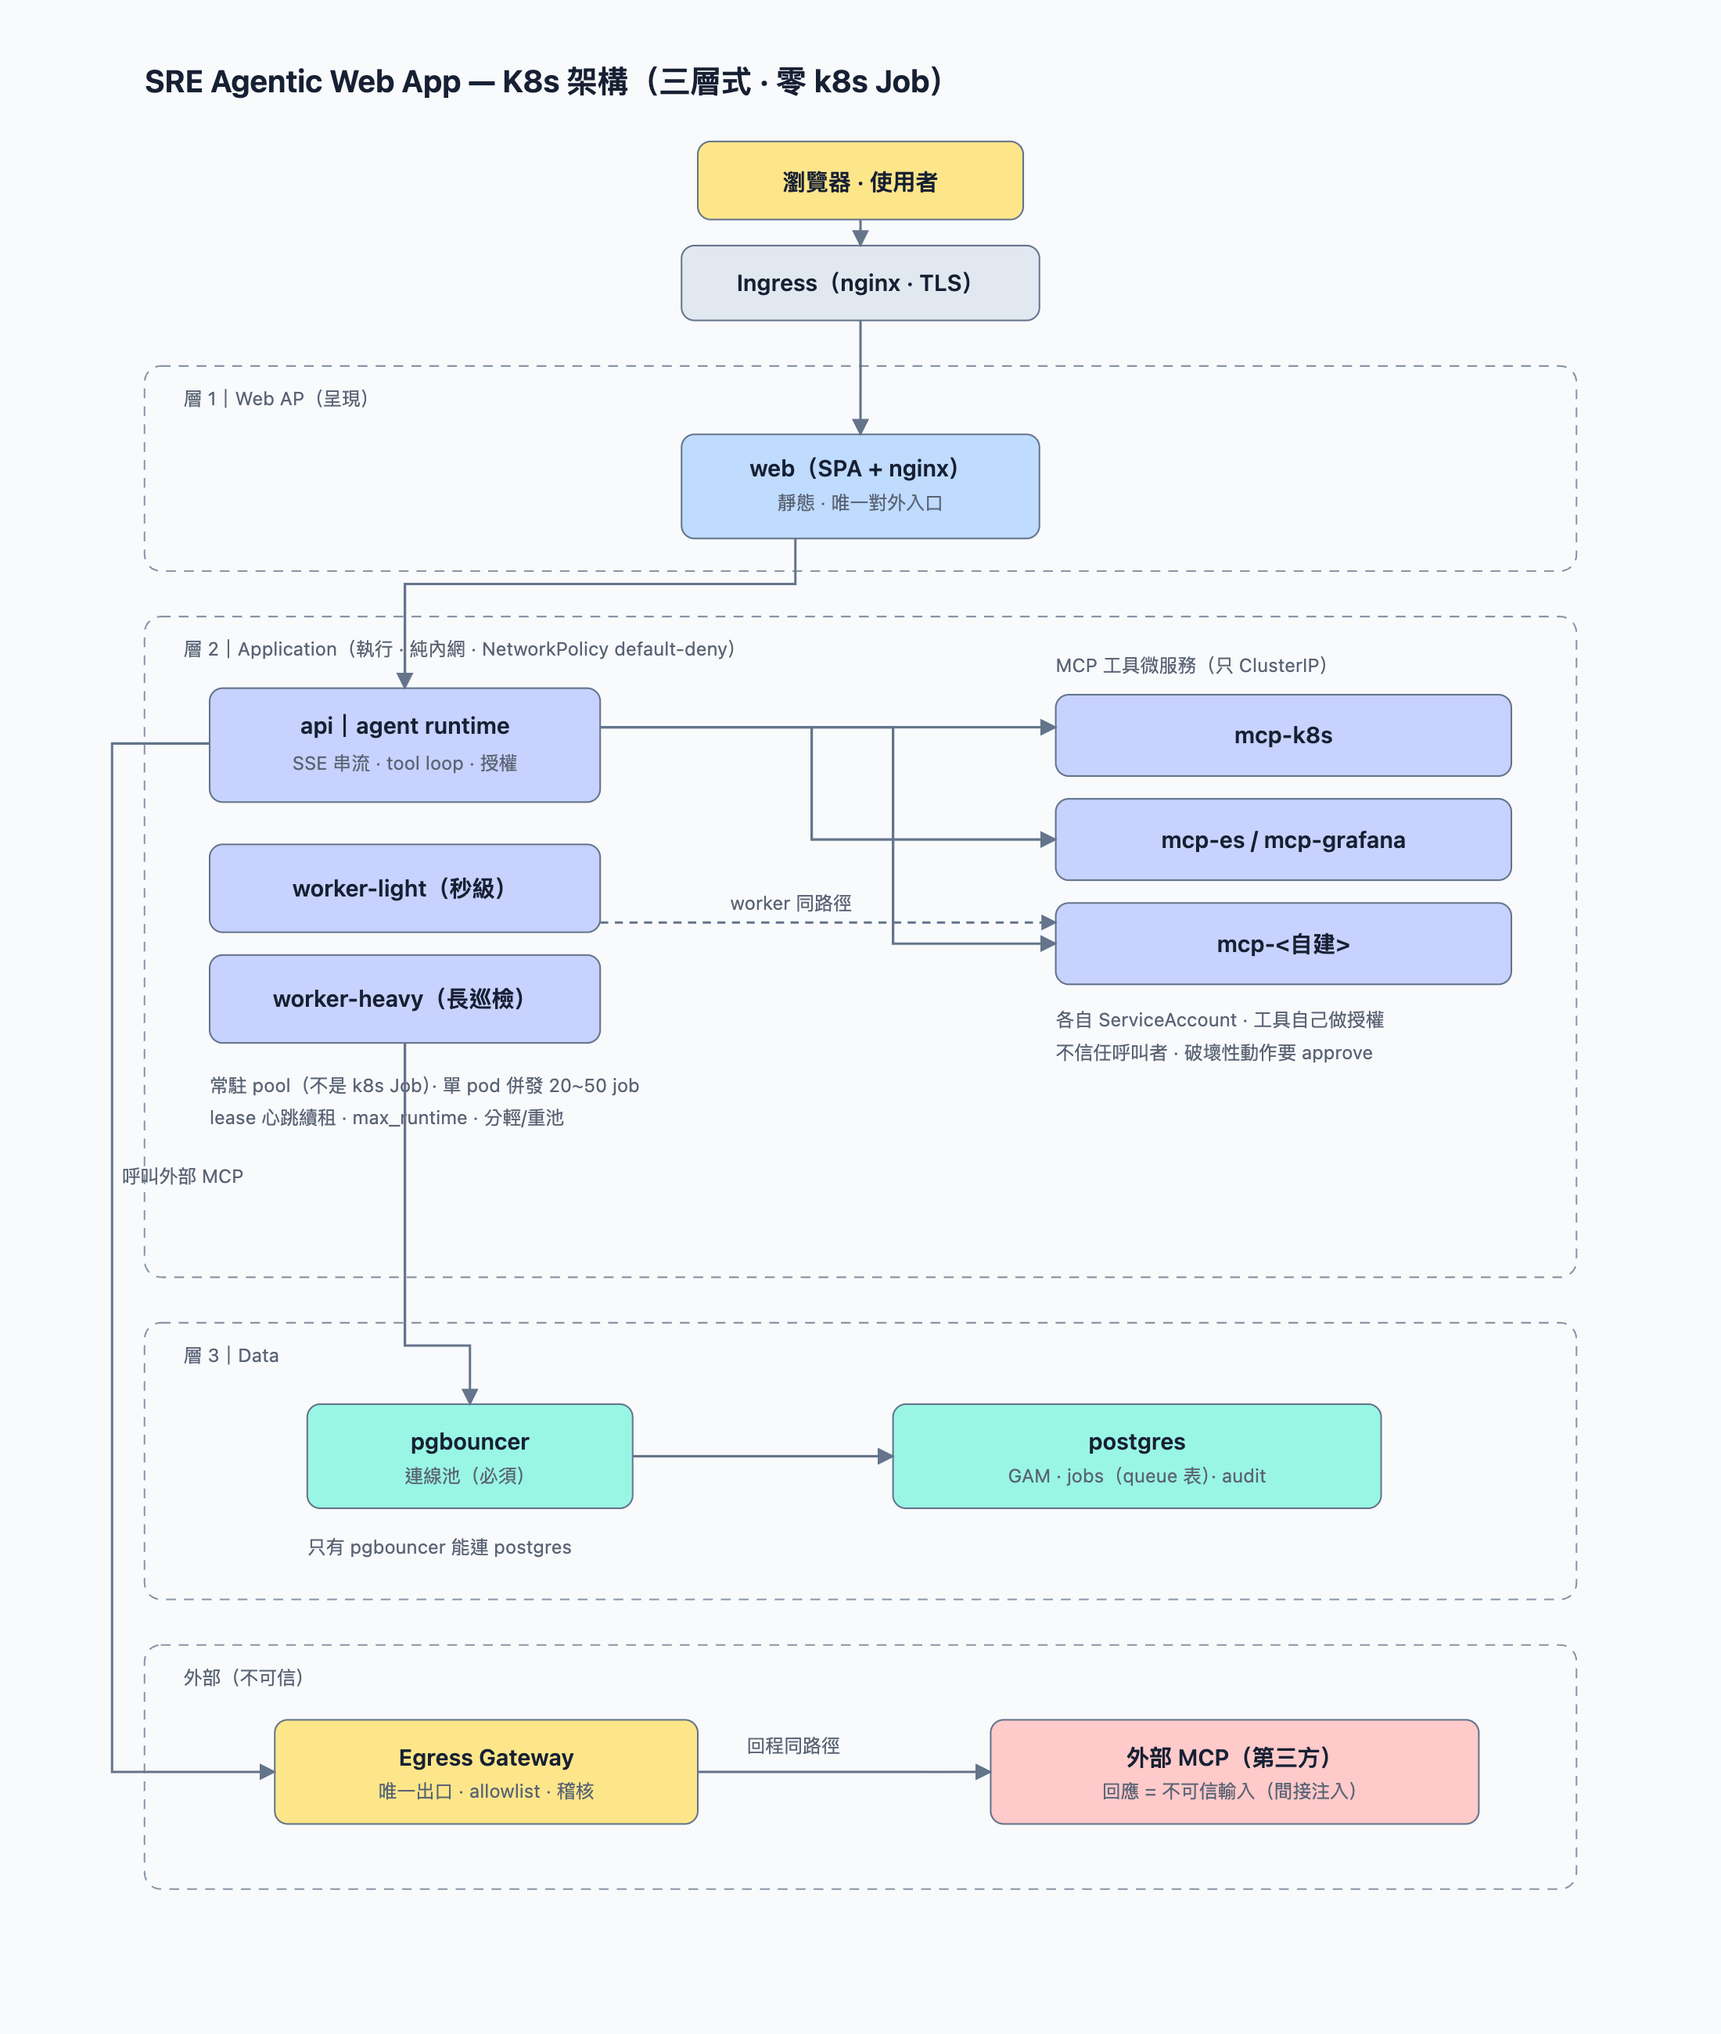
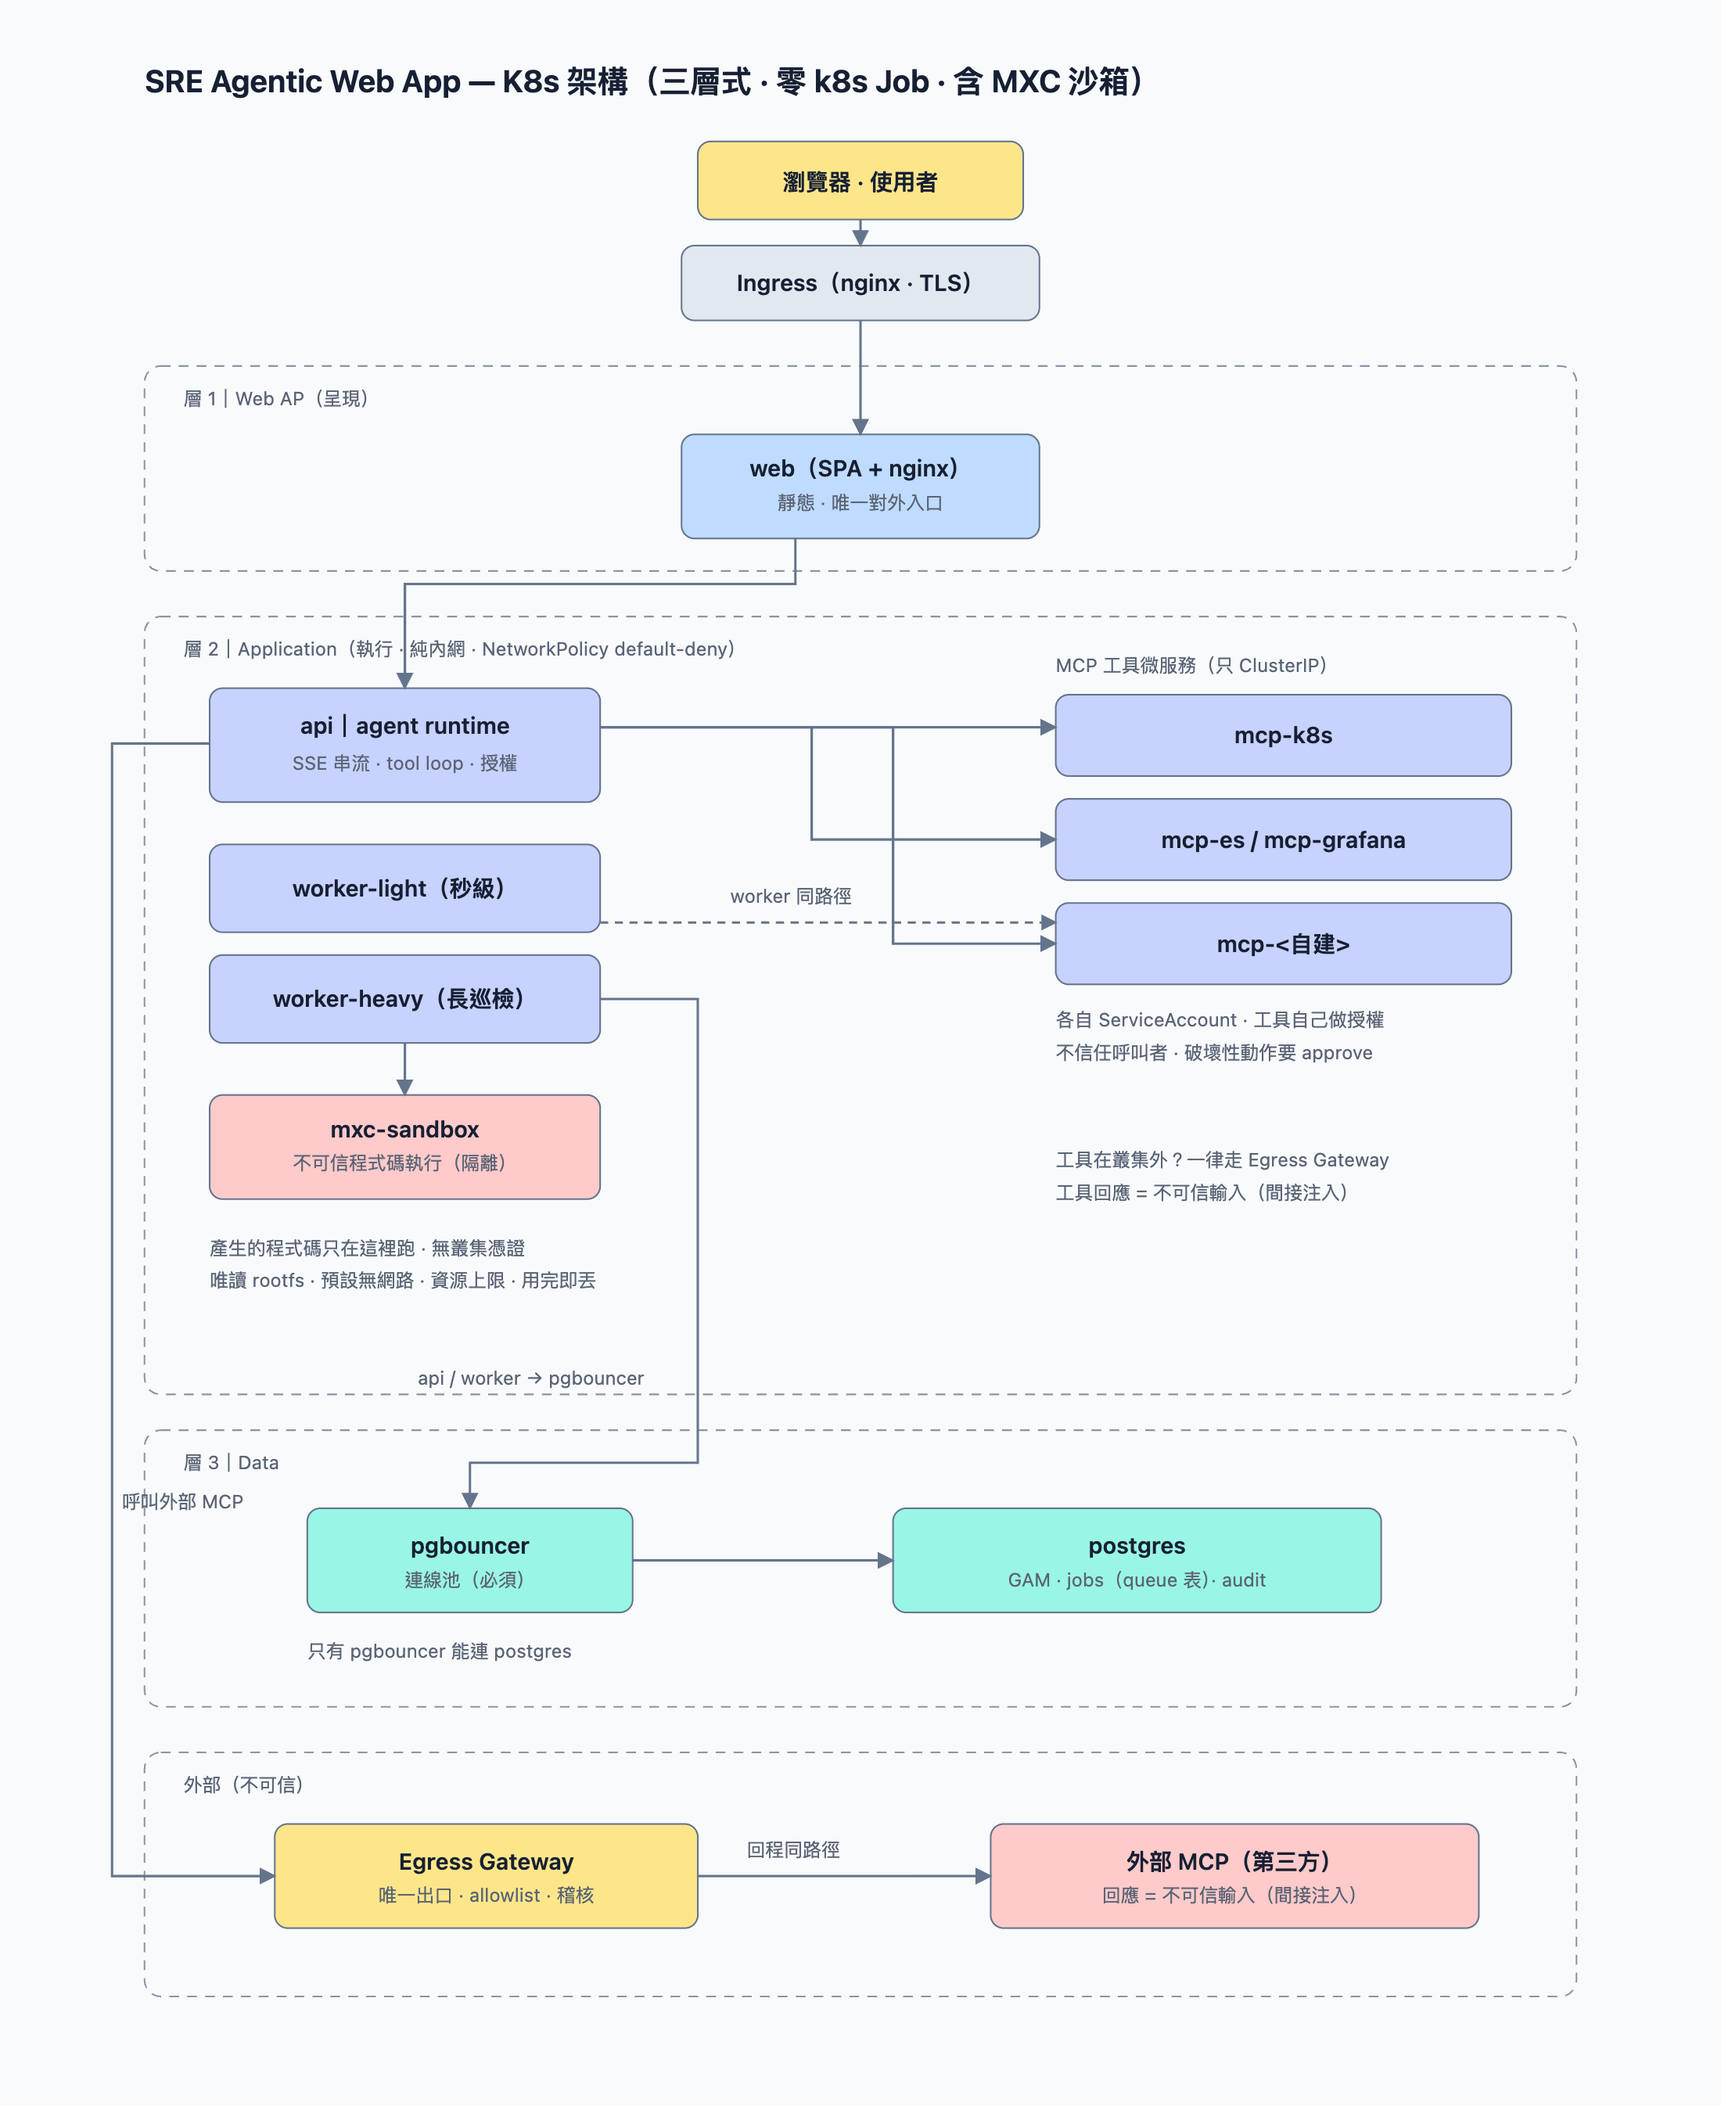
docs(diagram): 加入 MXC 沙箱（層2 隔離執行圈，無叢集憑證/唯讀 rootfs/預設無網路）

diff --git a/docs/architecture-diagram.html b/docs/architecture-diagram.html
@@ -1,7 +1,7 @@
 <!doctype html>
 <meta charset="utf-8" />
 <meta name="viewport" content="width=device-width, initial-scale=1" />
-<title>SRE Agentic Web App — K8s 架構</title>
+<title>SRE Agentic Web App — K8s 架構（含 MXC 沙箱）</title>
 <style>
   :root{color-scheme:light;
     --bg:#f8fafc;--fg:#172033;--muted:#5b6475;--line:#64748b;
@@ -21,13 +21,13 @@
   .zone{fill:none;stroke:var(--line);stroke-width:1;stroke-dasharray:6 5;opacity:.75;}
 </style>
 <main>
-<svg viewBox="0 0 1000 1170" role="img" aria-label="SRE agentic web app architecture">
+<svg viewBox="0 0 1000 1240" role="img" aria-label="SRE agentic web app architecture with MXC sandbox">
   <defs>
     <marker id="a" viewBox="0 0 10 10" refX="9" refY="5" markerWidth="7" markerHeight="7" orient="auto-start-reverse">
       <path d="M0 0 L10 5 L0 10 z" fill="#64748b"/>
     </marker>
   </defs>
-  <text class="title" x="60" y="30">SRE Agentic Web App — K8s 架構（三層式 · 零 k8s Job）</text>
+  <text class="title" x="60" y="30">SRE Agentic Web App — K8s 架構（三層式 · 零 k8s Job · 含 MXC 沙箱）</text>
 
   <rect class="node external" x="400" y="60" width="200" height="48" rx="8"/>
   <text class="label" x="500" y="90" text-anchor="middle">瀏覽器 · 使用者</text>
@@ -41,7 +41,7 @@
   <text class="label" x="500" y="266" text-anchor="middle">web（SPA + nginx）</text>
   <text class="small" x="500" y="286" text-anchor="middle">靜態 · 唯一對外入口</text>
 
-  <rect class="zone" x="60" y="352" width="880" height="406" rx="10"/>
+  <rect class="zone" x="60" y="352" width="880" height="478" rx="10"/>
   <text class="small" x="84" y="376">層 2｜Application（執行 · 純內網 · NetworkPolicy default-deny）</text>
 
   <rect class="node process" x="100" y="396" width="240" height="70" rx="8"/>
@@ -54,8 +54,12 @@
   <rect class="node process" x="100" y="560" width="240" height="54" rx="8"/>
   <text class="label" x="220" y="592" text-anchor="middle">worker-heavy（長巡檢）</text>
 
-  <text class="small" x="100" y="644">常駐 pool（不是 k8s Job）· 單 pod 併發 20~50 job</text>
-  <text class="small" x="100" y="664">lease 心跳續租 · max_runtime · 分輕/重池</text>
+  <rect class="node risk" x="100" y="646" width="240" height="64" rx="8"/>
+  <text class="label" x="220" y="672" text-anchor="middle">mxc-sandbox</text>
+  <text class="small" x="220" y="692" text-anchor="middle">不可信程式碼執行（隔離）</text>
+
+  <text class="small" x="100" y="744">產生的程式碼只在這裡跑 · 無叢集憑證</text>
+  <text class="small" x="100" y="764">唯讀 rootfs · 預設無網路 · 資源上限 · 用完即丟</text>
 
   <text class="small" x="620" y="386">MCP 工具微服務（只 ClusterIP）</text>
   <rect class="node process" x="620" y="400" width="280" height="50" rx="8"/>
@@ -69,25 +73,27 @@
 
   <text class="small" x="620" y="604">各自 ServiceAccount · 工具自己做授權</text>
   <text class="small" x="620" y="624">不信任呼叫者 · 破壞性動作要 approve</text>
+  <text class="small" x="620" y="690">工具在叢集外？一律走 Egress Gateway</text>
+  <text class="small" x="620" y="710">工具回應 = 不可信輸入（間接注入）</text>
 
-  <rect class="zone" x="60" y="786" width="880" height="170" rx="10"/>
-  <text class="small" x="84" y="810">層 3｜Data</text>
-  <rect class="node storage" x="160" y="836" width="200" height="64" rx="8"/>
-  <text class="label" x="260" y="864" text-anchor="middle">pgbouncer</text>
-  <text class="small" x="260" y="884" text-anchor="middle">連線池（必須）</text>
-  <rect class="node storage" x="520" y="836" width="300" height="64" rx="8"/>
-  <text class="label" x="670" y="864" text-anchor="middle">postgres</text>
-  <text class="small" x="670" y="884" text-anchor="middle">GAM · jobs（queue 表）· audit</text>
-  <text class="small" x="160" y="928">只有 pgbouncer 能連 postgres</text>
+  <rect class="zone" x="60" y="852" width="880" height="170" rx="10"/>
+  <text class="small" x="84" y="876">層 3｜Data</text>
+  <rect class="node storage" x="160" y="900" width="200" height="64" rx="8"/>
+  <text class="label" x="260" y="928" text-anchor="middle">pgbouncer</text>
+  <text class="small" x="260" y="948" text-anchor="middle">連線池（必須）</text>
+  <rect class="node storage" x="520" y="900" width="300" height="64" rx="8"/>
+  <text class="label" x="670" y="928" text-anchor="middle">postgres</text>
+  <text class="small" x="670" y="948" text-anchor="middle">GAM · jobs（queue 表）· audit</text>
+  <text class="small" x="160" y="992">只有 pgbouncer 能連 postgres</text>
 
-  <rect class="zone" x="60" y="984" width="880" height="150" rx="10"/>
-  <text class="small" x="84" y="1008">外部（不可信）</text>
-  <rect class="node external" x="140" y="1030" width="260" height="64" rx="8"/>
-  <text class="label" x="270" y="1058" text-anchor="middle">Egress Gateway</text>
-  <text class="small" x="270" y="1078" text-anchor="middle">唯一出口 · allowlist · 稽核</text>
-  <rect class="node risk" x="580" y="1030" width="300" height="64" rx="8"/>
-  <text class="label" x="730" y="1058" text-anchor="middle">外部 MCP（第三方）</text>
-  <text class="small" x="730" y="1078" text-anchor="middle">回應 = 不可信輸入（間接注入）</text>
+  <rect class="zone" x="60" y="1050" width="880" height="150" rx="10"/>
+  <text class="small" x="84" y="1074">外部（不可信）</text>
+  <rect class="node external" x="140" y="1094" width="260" height="64" rx="8"/>
+  <text class="label" x="270" y="1122" text-anchor="middle">Egress Gateway</text>
+  <text class="small" x="270" y="1142" text-anchor="middle">唯一出口 · allowlist · 稽核</text>
+  <rect class="node risk" x="580" y="1094" width="300" height="64" rx="8"/>
+  <text class="label" x="730" y="1122" text-anchor="middle">外部 MCP（第三方）</text>
+  <text class="small" x="730" y="1142" text-anchor="middle">回應 = 不可信輸入（間接注入）</text>
 
   <path class="edge" marker-end="url(#a)" d="M500 108 V 124"/>
   <path class="edge" marker-end="url(#a)" d="M500 170 V 240"/>
@@ -96,12 +102,14 @@
   <path class="edge" marker-end="url(#a)" d="M340 420 H 470 V 489 H 620"/>
   <path class="edge" marker-end="url(#a)" d="M340 420 H 520 V 553 H 620"/>
   <path class="dash" marker-end="url(#a)" d="M340 540 H 620"/>
-  <text class="small" x="420" y="532">worker 同路徑</text>
-  <path class="edge" marker-end="url(#a)" d="M220 614 V 800 H 260 V 836"/>
-  <path class="edge" marker-end="url(#a)" d="M360 868 H 520"/>
-  <path class="edge" marker-end="url(#a)" d="M100 430 H 40 V 1062 H 140"/>
-  <text class="small" x="46" y="700">呼叫外部 MCP</text>
-  <path class="edge" marker-end="url(#a)" d="M400 1062 H 580"/>
-  <text class="small" x="430" y="1050">回程同路徑</text>
+  <text class="small" x="420" y="528">worker 同路徑</text>
+  <path class="edge" marker-end="url(#a)" d="M220 614 V 646"/>
+  <path class="edge" marker-end="url(#a)" d="M340 587 H 400 V 872 H 260 V 900"/>
+  <text class="small" x="228" y="824">api / worker → pgbouncer</text>
+  <path class="edge" marker-end="url(#a)" d="M360 932 H 520"/>
+  <path class="edge" marker-end="url(#a)" d="M100 430 H 40 V 1126 H 140"/>
+  <text class="small" x="46" y="900">呼叫外部 MCP</text>
+  <path class="edge" marker-end="url(#a)" d="M400 1126 H 580"/>
+  <text class="small" x="430" y="1114">回程同路徑</text>
 </svg>
 </main>
